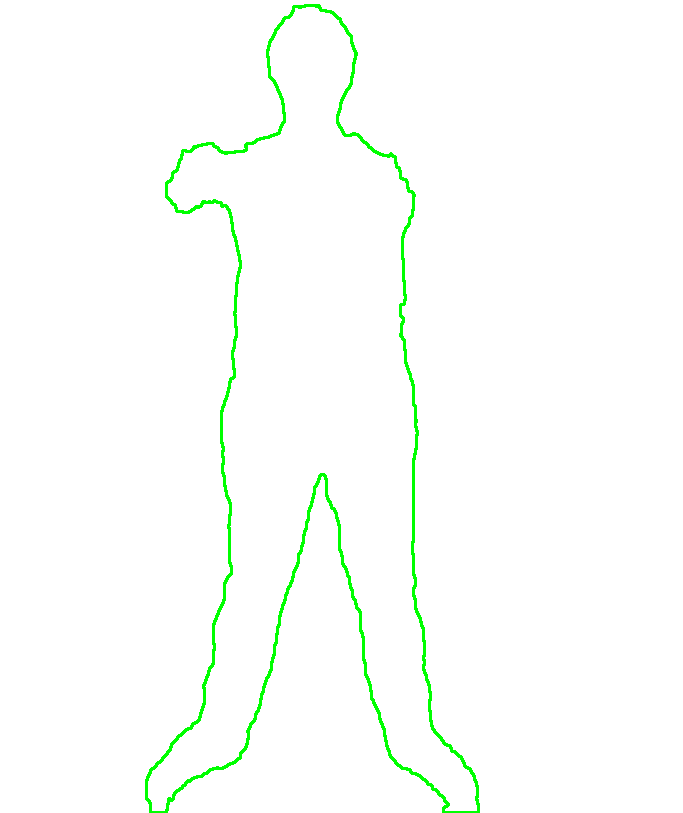
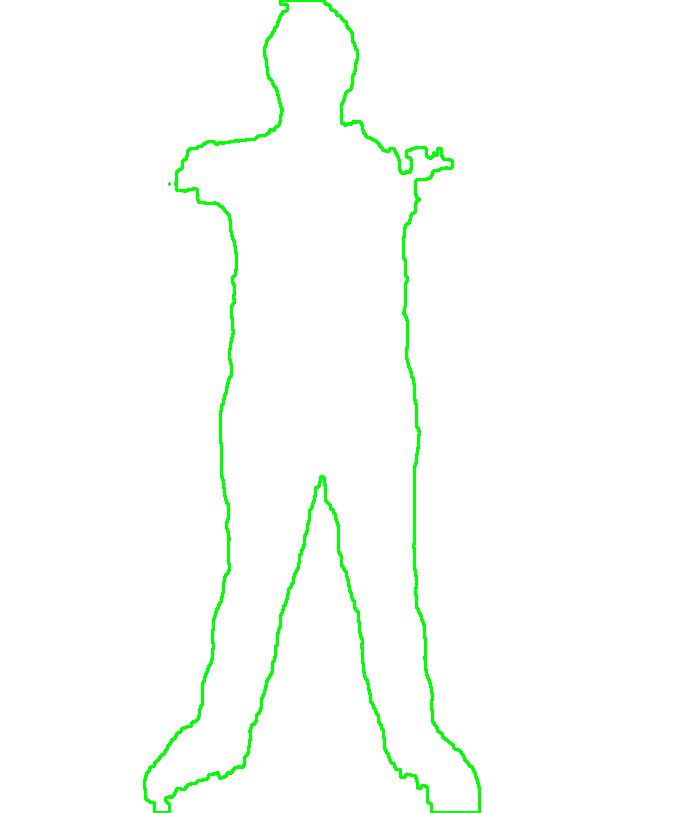
commiting

diff --git a/trial_silhouette.py b/trial_silhouette.py
@@ -18,64 +18,63 @@
 #     cv2.imshow("Outline", outline)
 #     cv2.waitKey(0)
 #     cv2.destroyAllWindows()
-import cv2
-import numpy as np
-def find_outline1(image):
-    # Load the image
+# import cv2
+# import numpy as np
+# def find_outline1(image):
+#     # Load the image
 
 
-    # Convert the image to grayscale
-    gray = cv2.cvtColor(image, cv2.COLOR_BGR2GRAY)
+#     # Convert the image to grayscale
+#     gray = cv2.cvtColor(image, cv2.COLOR_BGR2GRAY)
 
-    # Apply edge detection (Canny Edge Detection)
-    edges = cv2.Canny(gray, 50, 150)
+#     # Apply edge detection (Canny Edge Detection)
+#     edges = cv2.Canny(gray, 50, 150)
 
-    # Create a blank (black) image with the same dimensions as the original
-    outline_image = np.zeros_like(image)
+#     # Create a blank (black) image with the same dimensions as the original
+#     outline_image = np.zeros_like(image)
 
-    # Draw the edges (outline) on the blank image in white
-    outline_image[edges > 0] = (255, 255, 255)  # White outline
+#     # Draw the edges (outline) on the blank image in white
+#     outline_image[edges > 0] = (255, 255, 255)  # White outline
 
-    # Save the new outline image
-    cv2.imwrite('outline_only.png', outline_image)
+#     # Save the new outline image
+#     cv2.imwrite('outline_only.png', outline_image)
 
-    # Display the new outline image
-    cv2.imshow("Outline", outline_image)
-    cv2.waitKey(0)
-    cv2.destroyAllWindows()
+#     # Display the new outline image
+#     cv2.imshow("Outline", outline_image)
+#     cv2.waitKey(0)
+#     cv2.destroyAllWindows()
 import cv2
 import numpy as np
 import mediapipe as mp
-def find_outline2(image):
 
-# Initialize Mediapipe segmentation
+def find_outline1(image):
+    # Initialize Mediapipe segmentation
     mp_selfie_segmentation = mp.solutions.selfie_segmentation
 
-    # Load the image
-    
+    # Convert the image to RGB (Mediapipe expects RGB input)
     image_rgb = cv2.cvtColor(image, cv2.COLOR_BGR2RGB)
 
     # Apply Mediapipe Selfie Segmentation
     with mp_selfie_segmentation.SelfieSegmentation(model_selection=1) as segmentation:
         results = segmentation.process(image_rgb)
 
-    # Get the segmentation mask
-    mask = (results.segmentation_mask > 0.5).astype(np.uint8) * 255  # Binary mask
+    # Create a binary mask where the person is segmented
+    # The segmentation mask returns values between 0 and 1, so we threshold it to get a binary mask (0 or 255)
+    mask = (results.segmentation_mask > 0.2).astype(np.uint8) * 255  # Binary mask for the person
 
-    # Find contours of the mask
+    # Find contours of the mask (this will give us the outline of the person)
     contours, _ = cv2.findContours(mask, cv2.RETR_EXTERNAL, cv2.CHAIN_APPROX_SIMPLE)
 
-    # Create a blank transparent image (RGBA) for the outline
+    # Create a blank image with the same dimensions as the original, but with transparency (RGBA)
     outline_image = np.zeros((image.shape[0], image.shape[1], 4), dtype=np.uint8)
 
-    # Draw the contours (outline) on the blank image
-    cv2.drawContours(outline_image, contours, -1, (0, 255, 0, 255), thickness=2)  # Green outline
+    # Draw the contours (outline) on the blank image in green (or any other color you'd like)
+    cv2.drawContours(outline_image, contours, -1, (0, 255, 0, 255), thickness=2)  # Green outline with full opacity
 
     # Save the outline as a separate PNG with transparency
     cv2.imwrite('outline_only.png', outline_image)
 
-    # Display the result
+    # Display the result (outline of the person)
     cv2.imshow('Outline Only', outline_image)
     cv2.waitKey(0)
     cv2.destroyAllWindows()
-

diff --git a/modification_dpt.py b/modification_dpt.py
@@ -177,10 +177,10 @@ def find(path):
             x1, y1, x2, y2 = map(int, result[:4])
             #Region of Interest
             #cv2.imshow("roi",image[y1:y2, x1:x2])
-            from trial_silhouette import find_outline2
-            find_outline2(image[y1:y2, x1:x2])
             from trial_Int_DPT_POSE import pose_extimation
             rightco,leftco=pose_extimation(image[y1:y2, x1:x2])
+            from trial_silhouette import find_outline1
+            find_outline1(image[y1:y2, x1:x2])
             roi = (x1, y1, x2 - x1, y2 - y1) 
             confidence = result[4].item()
             cv2.rectangle(image, (x1, y1), (x2, y2), (255, 255, 0), 2)
